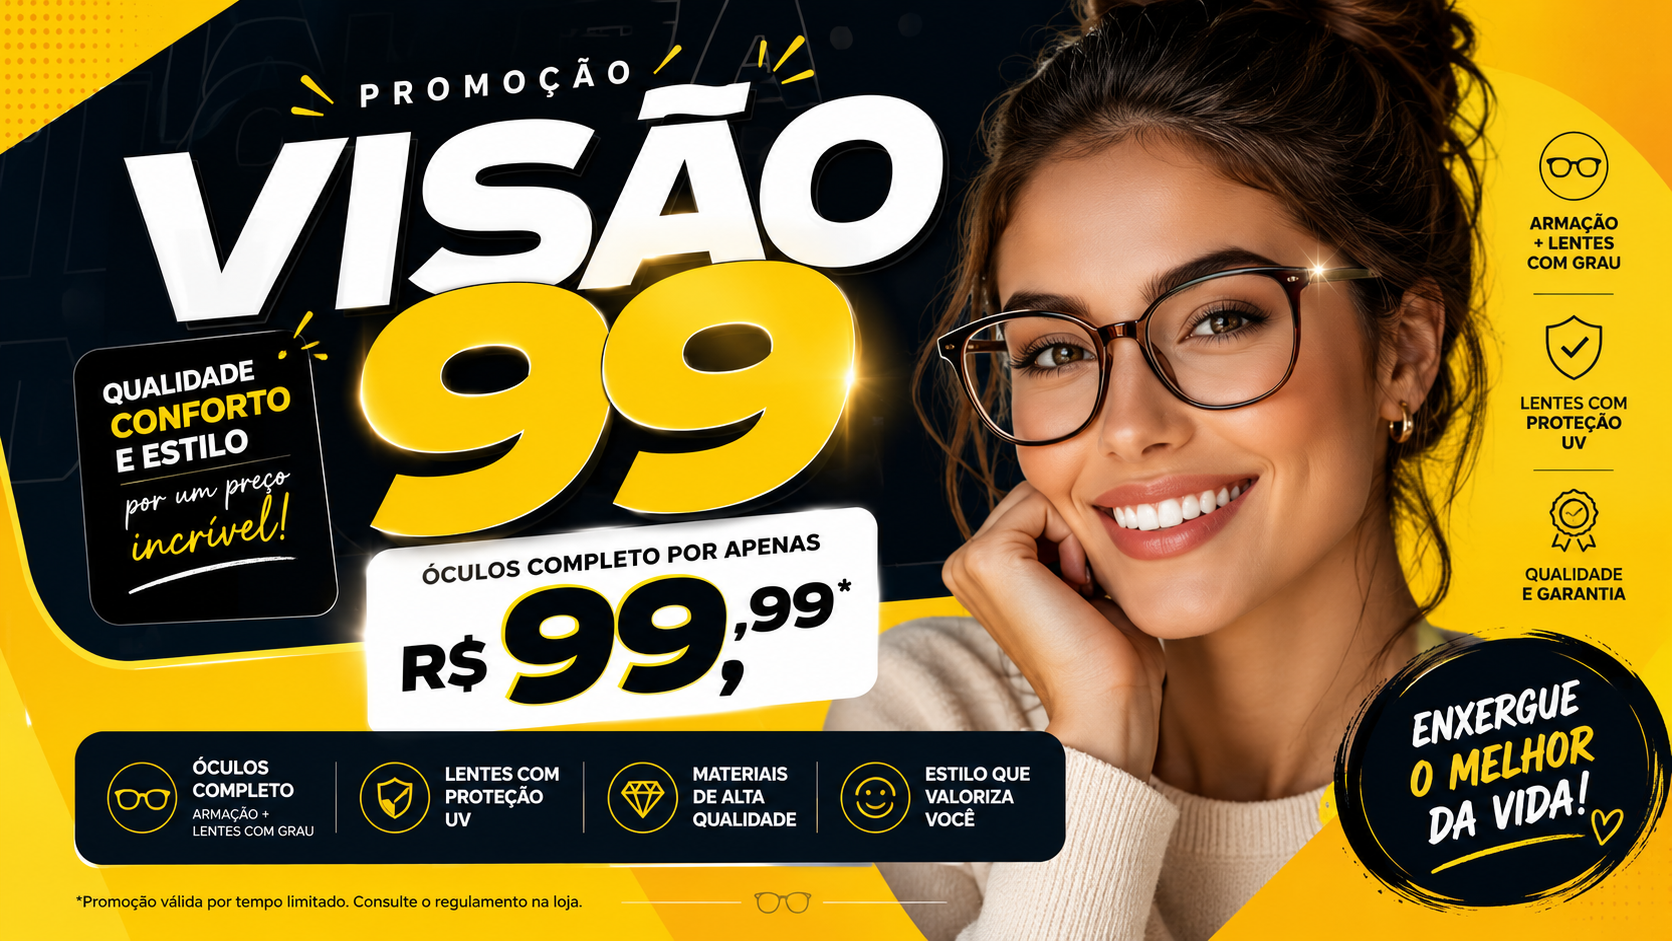
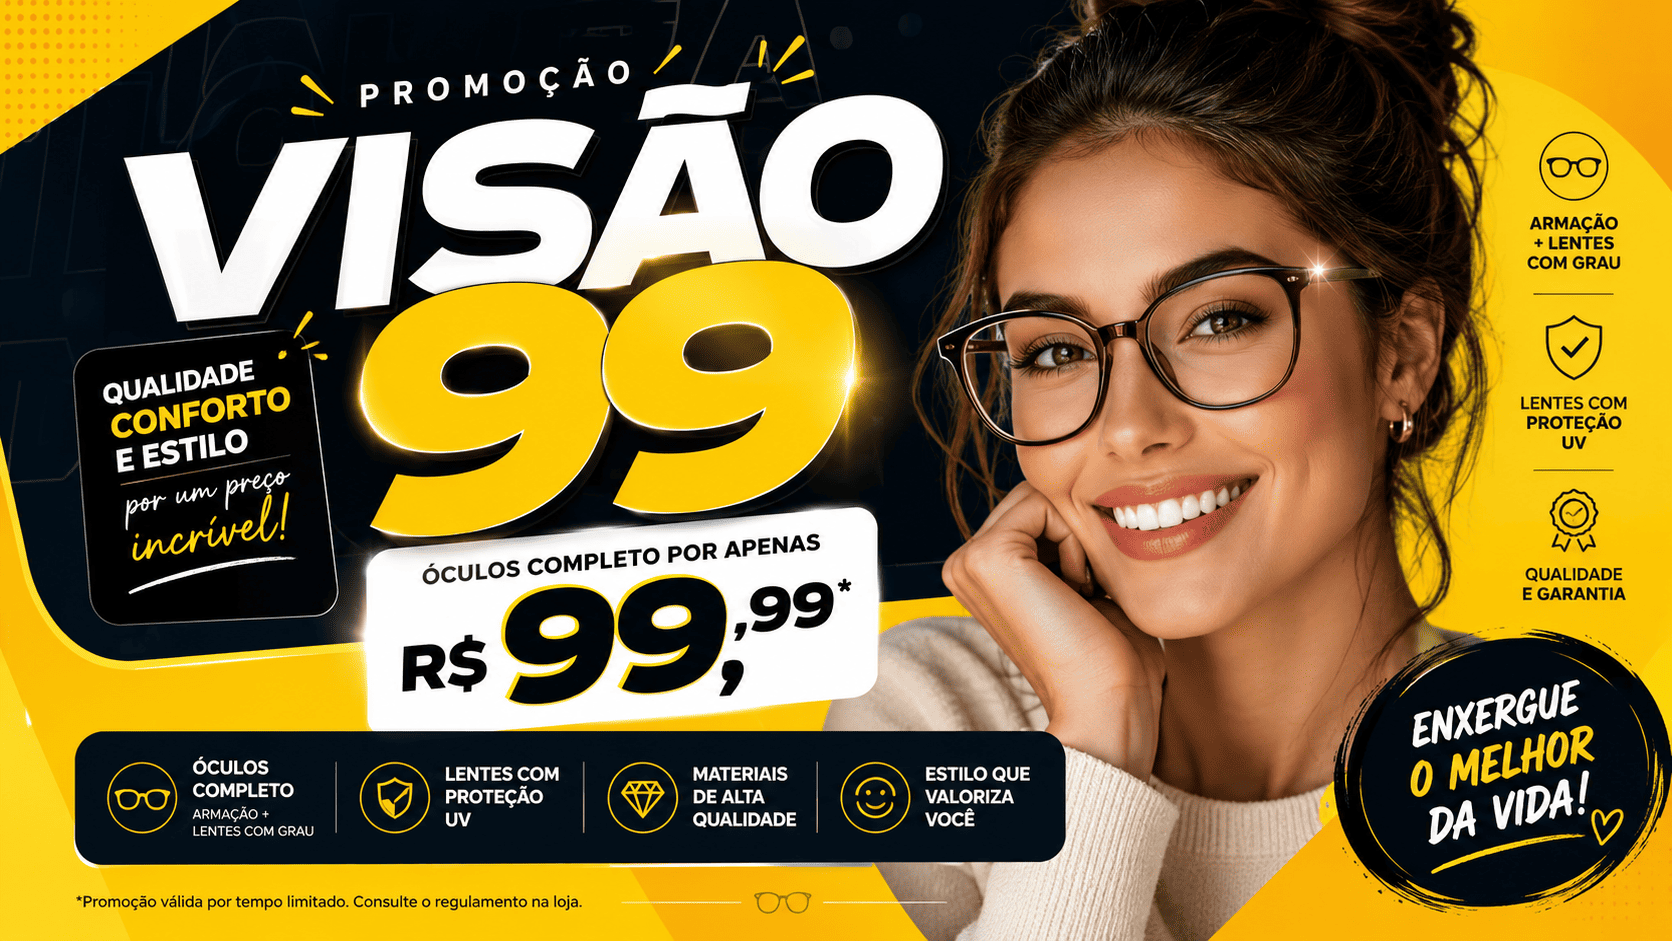
fix: correct visao99 image paths

diff --git a/frontend/public/visao99/index.html b/frontend/public/visao99/index.html
@@ -203,7 +203,7 @@
               <div class="show-card-img">
                 <span class="chip">Armações Selecionadas</span>
                 <img
-                  src="./moda.jpeg"
+                  src="/visao99/img/moda.jpeg"
                   alt="Armações elegantes de acetato e metal"
                 />
               </div>
@@ -221,7 +221,7 @@
               <div class="show-card-img">
                 <span class="chip">Lentes sob Medida</span>
                 <img
-                  src="./img/nit.jpeg"
+                  src="/visao99/img/nit.jpeg"
                   alt="Lente oftálmica de alta precisão"
                 />
               </div>
@@ -239,7 +239,7 @@
               <div class="show-card-img">
                 <span class="chip">Tratamento Anti-Luz Azul</span>
                 <img
-                  src="./img/blue.jpeg"
+                  src="/visao99/img/blue.jpeg"
                   alt="Pessoa trabalhando em frente a tela com óculos anti blue"
                 />
               </div>
